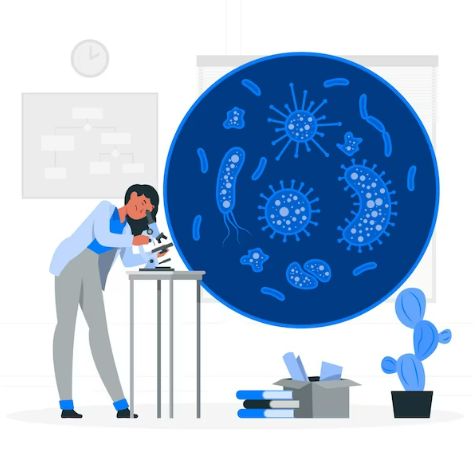
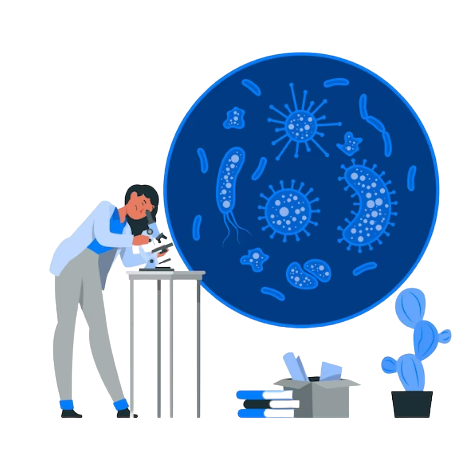
Add styles for Onboarding Pages

diff --git a/app/screens/OnboardingScreen.js b/app/screens/OnboardingScreen.js
@@ -17,16 +17,20 @@ export default function OnboardingScreen() {
 
   const slides = [
     {
-      title: 'Welcome to the App',
-      description: 'This is an onboarding screen for your app.',
-      image: require('../assets/Doc.png'),
+      title: ' We are here to help ',
+      description: 'Welcome to the App! We are here to help predict Infectious diseases ',
+      image: require('../assets/Onboarding1.png'),
     },
     {
-      title: 'Feature 1',
+      title: 'Give Your Symptoms',
       description: 'Describe the first feature of your app.',
-      image: require('../assets/Doc.png'),
+      image: require('../assets/Onboarding2.png'),
     },
-    // Add more slides as needed
+    {
+      title: 'Predict Infectious Disease',
+      description: 'Describe the first feature of your app.',
+      image: require('../assets/Onboarding3.png'),
+    },
   ];
 
   return (
@@ -53,7 +57,7 @@ export default function OnboardingScreen() {
 const styles = StyleSheet.create({
   container: {
     flex: 1,
-    backgroundColor: 'white',
+    backgroundColor: '#FFFF',
   },
   slideContainer: {
     flex: 1,
@@ -61,14 +65,15 @@ const styles = StyleSheet.create({
     justifyContent: 'center',
   },
   image: {
-    width: 200,
-    height: 200,
+    width: 350,
+    height: 350,
     resizeMode: 'contain',
   },
   title: {
     fontSize: 24,
     fontWeight: 'bold',
     marginBottom: 16,
+    color: 'black',
   },
   description: {
     fontSize: 16,
@@ -88,6 +93,6 @@ const styles = StyleSheet.create({
   buttonText: {
     fontSize: 18,
     fontWeight: 'bold',
-    color: 'blue',
+    color: '#00008B',
   },
 });

diff --git a/app/screens/SplashScreen.js b/app/screens/SplashScreen.js
@@ -45,13 +45,13 @@ const styles = StyleSheet.create({
     flex: 1,
     justifyContent: 'center',
     alignItems: 'center',
-    backgroundColor: 'rgba(50, 125, 255, 0.2)',
+    backgroundColor: '#87CEFA',
   },
   splash_heading: {
     fontSize: 50,
     bottom: 10,
-    color: '#1E90FF',
     fontWeight: 'bold',
+    color: 'black',
   },
   splashImage: {
     width: 420,
